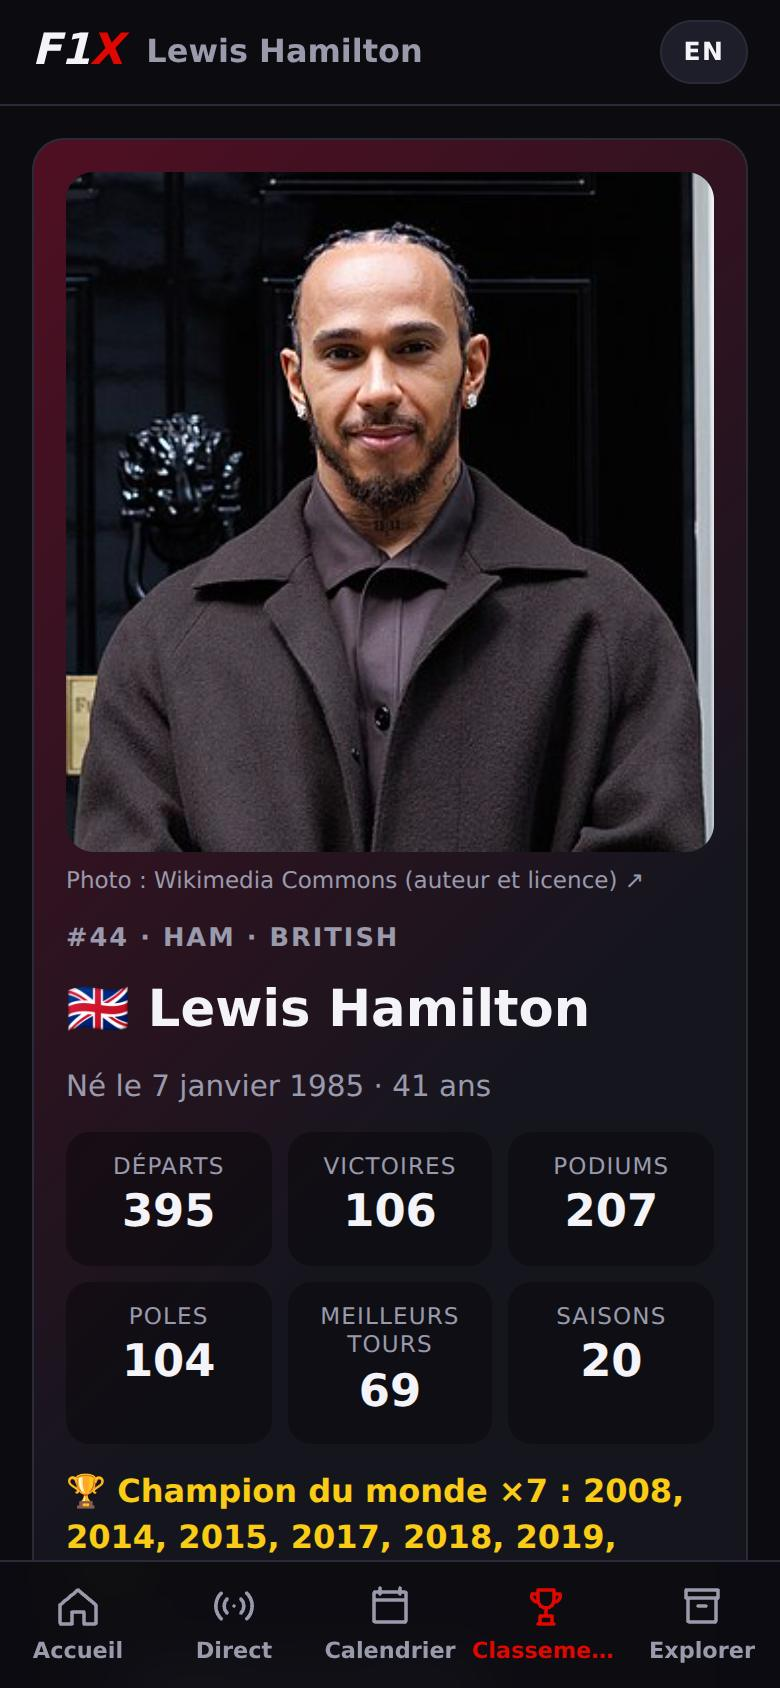
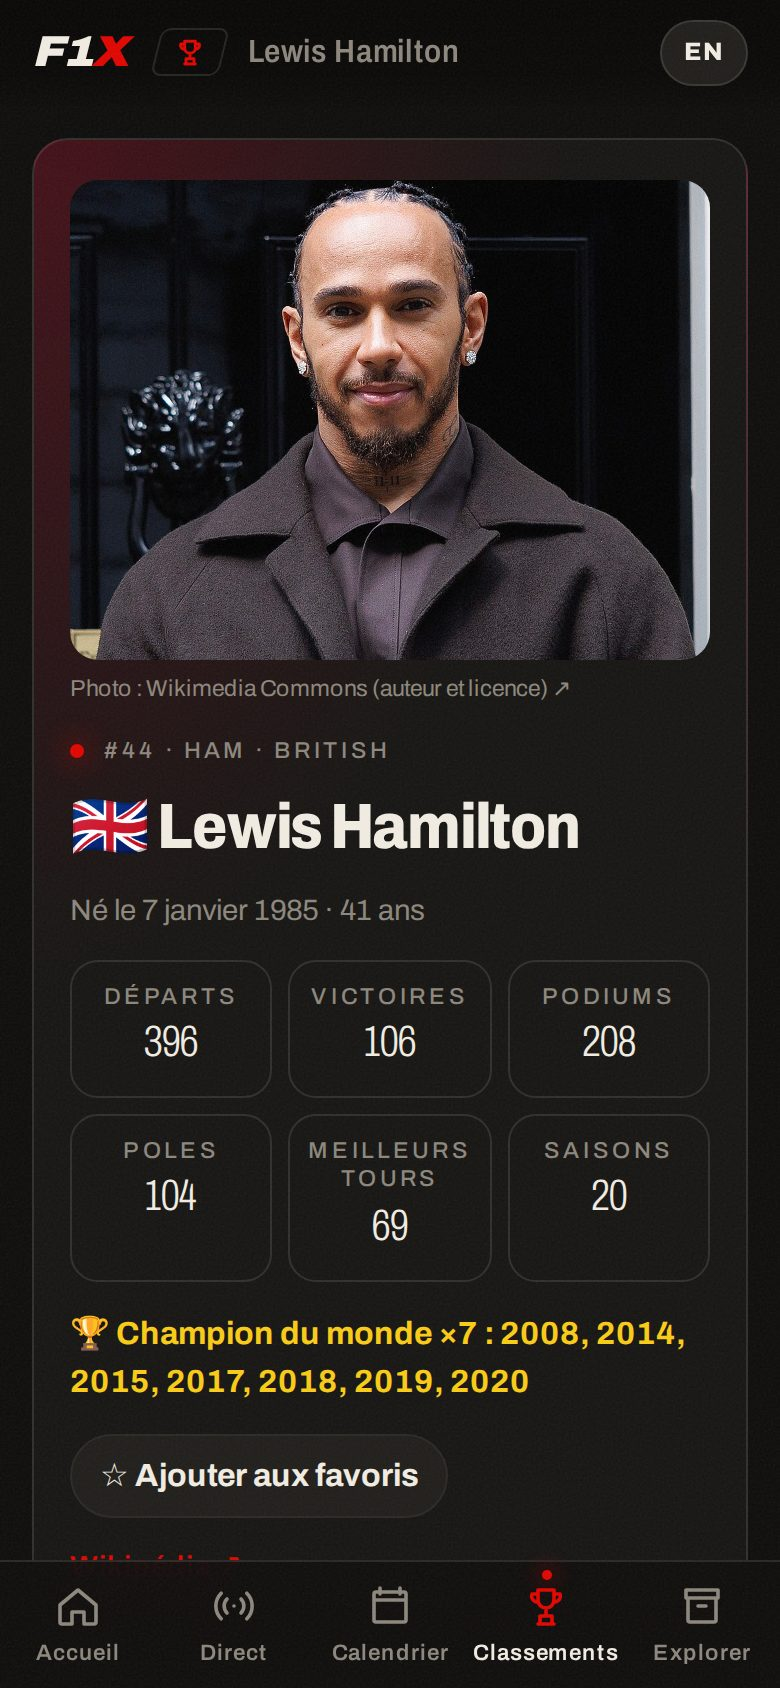
Site : rouge F1 rétabli et beaucoup plus d'animations
- Rouge F1 d'origine à la place de l'orange.
- Animations : entrée des pages, titres qui montent, apparition des
  cartes au défilement, barre de progression rouge, compte à rebours
  qui bascule à chaque seconde, lueur et ligne de vitesse sur la carte
  du prochain GP, X du logo qui s'allume, séances qui glissent, podium
  qui monte, barres qui se remplissent, course suivante qui respire,
  tracé du circuit qui se dessine, boutons aimantés, icône d'onglet qui
  saute.
- Présentation : titre mot à mot, bandeau qui défile, manifeste qui
  s'allume au défilement, chiffres qui comptent, téléphone qui flotte ;
  captures d'écran refaites dans le nouveau style.

diff --git a/web/server/static/app.css b/web/server/static/app.css
@@ -8,7 +8,7 @@
   --hair: rgba(242, 237, 227, .12);
   --text: #f2ede3;
   --muted: #8d877d;
-  --red: #e8501a;
+  --red: #e10600;
   --purple: #a855f7;
   --radius: 18px;
   --tabbar-h: 64px;
@@ -180,7 +180,7 @@ strong { font-weight: 800; }
 .race-name { font-weight: 700; line-height: 1.25; }
 .race-meta { color: var(--muted); font-size: .85rem; }
 .race-check { color: var(--muted); font-weight: 800; flex: none; }
-.next-race { display: flex; flex-direction: column; gap: 4px; border-color: var(--red); background: linear-gradient(160deg, rgba(232, 80, 26, .16), var(--surface) 65%); color: inherit; text-decoration: none; }
+.next-race { display: flex; flex-direction: column; gap: 4px; border-color: var(--red); background: linear-gradient(160deg, rgba(225, 6, 0, .16), var(--surface) 65%); color: inherit; text-decoration: none; }
 .next-race-name { font-size: 1.15rem; font-weight: 800; white-space: nowrap; overflow: hidden; text-overflow: ellipsis; }
 .next-race-date { font-weight: 700; }
 .badge {
@@ -190,7 +190,7 @@ strong { font-weight: 800; }
 .badge-live { background: var(--red); color: #fff; }
 .tag {
   display: inline-block; font-size: .68rem; font-weight: 700; text-transform: uppercase;
-  padding: 1px 6px; border-radius: 6px; background: rgba(232, 80, 26, .16); color: #ff8a5c;
+  padding: 1px 6px; border-radius: 6px; background: rgba(225, 6, 0, .16); color: #ff6b66;
 }
 .tag-purple { background: rgba(168, 85, 247, .2); color: var(--purple); }
 
@@ -428,10 +428,10 @@ button.btn:disabled { opacity: .5; }
 .quiz-options { display: grid; grid-template-columns: minmax(0, 1fr); gap: 8px; }
 .quiz-option { font: inherit; font-weight: 700; text-align: left; color: var(--text); background: var(--surface); border: 1px solid var(--line); border-radius: 12px; padding: 14px; cursor: pointer; }
 .quiz-right { border-color: #22c55e; background: rgba(34, 197, 94, .15); }
-.quiz-wrong { border-color: var(--red); background: rgba(232, 80, 26, .15); }
+.quiz-wrong { border-color: var(--red); background: rgba(225, 6, 0, .15); }
 .quiz-dim { opacity: .5; }
 .predict-label { min-width: 7.5ch; }
-.row-picked { background: rgba(232, 80, 26, .08); }
+.row-picked { background: rgba(225, 6, 0, .08); }
 .pick-btn { flex: none; width: 40px; height: 40px; border-radius: 50%; border: 1px solid var(--line); background: var(--surface-2); color: var(--text); font: inherit; font-size: 1.2rem; font-weight: 800; cursor: pointer; }
 .pick-btn:disabled { opacity: .35; }
 .pick-on { background: var(--red); border-color: var(--red); color: #fff; }
@@ -572,7 +572,7 @@ button.btn:disabled { opacity: .5; }
 .app-foot-note { font-size: .74rem; line-height: 1.45; }
 
 /* ---------- Installation (PWA) ---------- */
-.install-card { border-color: rgba(232, 80, 26, .45); background: linear-gradient(160deg, rgba(232, 80, 26, .12), var(--surface) 60%); }
+.install-card { border-color: rgba(225, 6, 0, .45); background: linear-gradient(160deg, rgba(225, 6, 0, .12), var(--surface) 60%); }
 .install-close { flex: none; width: 36px; height: 36px; border-radius: 999px; border: 1px solid var(--line); background: var(--surface-2);
   color: var(--muted); font: inherit; cursor: pointer; }
 .scene-full { position: fixed; inset: 0; z-index: 100; margin: 0; border-radius: 0;
@@ -900,10 +900,10 @@ h2 { font-size: 1.3rem; font-weight: 700; }
 .tab[aria-current="page"] svg, .tab-active svg { stroke: var(--red); }
 
 /* Logos de rubrique : sobres, contour crème et pictogramme signal. */
-.sec-home, .sec-live, .sec-cal, .sec-standings, .sec-explore { --sec: var(--red); --sec2: #ff8a5c; }
+.sec-home, .sec-live, .sec-cal, .sec-standings, .sec-explore { --sec: var(--red); --sec2: #ff5a3c; }
 .sec-badge { background: transparent; border: 1px solid var(--hair); box-shadow: none; }
 .sec-badge svg { stroke: var(--red); }
-.sec-intro { background: radial-gradient(circle at 50% 45%, rgba(232, 80, 26, .22), transparent 62%), rgba(8, 7, 6, .72); }
+.sec-intro { background: radial-gradient(circle at 50% 45%, rgba(225, 6, 0, .22), transparent 62%), rgba(8, 7, 6, .72); }
 .sec-intro-label { font-variation-settings: "wdth" 88; letter-spacing: .18em; text-transform: uppercase; }
 
 /* Pied de page. */
@@ -924,4 +924,114 @@ h2 { font-size: 1.3rem; font-weight: 700; }
   .grain { animation: none; }
   .btn, .race-item { transition: none; }
   .btn:hover { transform: none; }
+}
+
+/* =====================================================================
+   Animations de l'atelier : entrée des pages, titres qui montent,
+   apparition au défilement, barre de progression, chiffres qui basculent.
+   ===================================================================== */
+.page { animation: page-in .65s var(--ease) both; }
+@keyframes page-in { from { opacity: 0; transform: translateY(16px); } }
+.hero-title, .page > h1 { animation: titre-in .9s var(--ease) both .08s; }
+@keyframes titre-in { from { opacity: 0; transform: translateY(.4em); filter: blur(6px); } }
+.eyebrow::before { animation: pouls 2.4s ease-in-out infinite; }
+@keyframes pouls { 50% { box-shadow: 0 0 4px var(--red); transform: scale(.7); } }
+
+/* Le chiffre qui change bascule (classe posée par le script de la page). */
+.cd-num.tic { animation: tic .45s var(--ease); }
+@keyframes tic { from { opacity: .25; transform: translateY(-.25em); } }
+
+/* Onglet choisi : petit saut de l'icône. */
+.tab[aria-current="page"] svg, .tab-active svg { animation: saut .5s var(--ease); }
+@keyframes saut { 40% { transform: translateY(-5px) scale(1.12); } }
+
+/* Boutons : balayage crème au survol (ordinateur). */
+.btn-ghost { background-image: linear-gradient(var(--text), var(--text)); background-repeat: no-repeat; background-size: 0 100%; transition: background-size .45s var(--ease), color .3s var(--ease), transform .35s var(--ease); }
+.btn-ghost:hover { background-size: 100% 100%; }
+
+/* Tracé des circuits : la ligne se dessine. */
+.outline-line { stroke-dasharray: 1; stroke-dashoffset: 1; animation: trace-circuit 1.8s var(--ease) forwards .2s; }
+@keyframes trace-circuit { to { stroke-dashoffset: 0; } }
+
+@supports (animation-timeline: view()) {
+  .card:not(.hero), .race-item, .news-item, .rows-card, .podium-step, .row, .wx-day {
+    animation: apparait linear both; animation-timeline: view(); animation-range: entry 0% entry 30%;
+  }
+}
+@keyframes apparait { from { opacity: 0; transform: translateY(36px) scale(.985); } to { opacity: 1; transform: none; } }
+@supports (animation-timeline: scroll()) {
+  body::after {
+    content: ""; position: fixed; top: 0; left: 0; right: 0; height: 2px; z-index: 80;
+    background: var(--red); transform-origin: 0 50%; animation: avance linear both; animation-timeline: scroll(root);
+  }
+}
+@keyframes avance { from { transform: scaleX(0); } to { transform: scaleX(1); } }
+
+@media (prefers-reduced-motion: reduce) {
+  .page, .hero-title, .page > h1, .eyebrow::before, .cd-num.tic, .tab[aria-current="page"] svg, .tab-active svg,
+  .card:not(.hero), .race-item, .news-item, .rows-card, .podium-step, .row, .wx-day { animation: none; }
+  .outline-line { animation: none; stroke-dashoffset: 0; }
+  body::after { display: none; }
+}
+
+/* ---------- Encore plus de mouvement ---------- */
+/* Lueur rouge qui dérive lentement derrière la carte du prochain Grand Prix. */
+.hero { position: relative; overflow: hidden; isolation: isolate; }
+.hero::before {
+  content: ""; position: absolute; z-index: -1; width: 70%; aspect-ratio: 1; left: -20%; top: -35%;
+  border-radius: 50%; background: radial-gradient(circle, rgba(225, 6, 0, .38), transparent 65%);
+  filter: blur(30px); animation: derive 14s ease-in-out infinite alternate;
+}
+@keyframes derive { to { transform: translate(55%, 45%) scale(1.25); } }
+/* Ligne de vitesse qui balaie la carte toutes les quelques secondes. */
+.hero::after {
+  content: ""; position: absolute; z-index: -1; left: -40%; top: 30%; width: 40%; height: 2px;
+  background: linear-gradient(90deg, transparent, rgba(225, 6, 0, .9), transparent);
+  animation: balaie 5.5s cubic-bezier(.6, 0, .3, 1) infinite 1.2s;
+}
+@keyframes balaie { 0% { transform: translateX(0); opacity: 0; } 8% { opacity: 1; } 30%, 100% { transform: translateX(380%); opacity: 0; } }
+
+/* Le X du logo s'allume. */
+.brand-x { display: inline-block; animation: x-allume 3.2s ease-in-out infinite; }
+@keyframes x-allume { 0%, 70%, 100% { text-shadow: none; } 80% { text-shadow: 0 0 14px rgba(225, 6, 0, .9); transform: skewX(-6deg); } }
+
+/* Programme du week-end : les séances glissent l'une après l'autre. */
+.sessions .session { animation: glisse .6s var(--ease) both; }
+.sessions .session:nth-child(2) { animation-delay: .06s; } .sessions .session:nth-child(3) { animation-delay: .12s; }
+.sessions .session:nth-child(4) { animation-delay: .18s; } .sessions .session:nth-child(5) { animation-delay: .24s; }
+.sessions .session:nth-child(6) { animation-delay: .30s; }
+@keyframes glisse { from { opacity: 0; transform: translateX(-22px); } }
+
+/* Podium : les marches montent, le vainqueur en dernier. */
+.podium-step { animation: marche .7s var(--ease) both; }
+.podium-step:nth-child(2) { animation-delay: .1s; } .podium-step:nth-child(3) { animation-delay: .2s; }
+.podium-step:nth-child(1) { animation-delay: .35s; }
+@keyframes marche { from { opacity: 0; transform: translateY(40px); } }
+
+/* Barres de points : elles se remplissent. */
+.bar-fill, .cmp-fill, .progress span { transform-origin: left center; animation: remplit 1.1s var(--ease) both .15s; }
+@keyframes remplit { from { transform: scaleX(0); } }
+
+/* Calendrier : la course suivante respire, les cartes se soulèvent au survol. */
+.race-item.next { animation: respire 2.6s ease-in-out infinite; }
+@keyframes respire { 50% { box-shadow: 0 0 0 4px rgba(225, 6, 0, .18), 0 0 26px rgba(225, 6, 0, .25); } }
+@media (hover: hover) {
+  /* « translate » (et non « transform ») : ne se bat pas avec les animations d'apparition. */
+  .race-item:hover, .news-item:hover, .card:not(.hero):hover { translate: 0 -3px; border-color: rgba(242, 237, 227, .3); }
+  .card, .news-item, .race-item { transition: translate .4s var(--ease), border-color .3s var(--ease); }
+  .row:hover::before { width: 7px; }
+  .row::before { transition: width .3s var(--ease); }
+}
+
+/* Chiffres clés et compte à rebours : apparition en cascade. */
+.stats div, .cd-cell { animation: chiffre .7s var(--ease) both; }
+.stats div:nth-child(2), .cd-cell:nth-child(2) { animation-delay: .07s; }
+.stats div:nth-child(3), .cd-cell:nth-child(3) { animation-delay: .14s; }
+.stats div:nth-child(4), .cd-cell:nth-child(4) { animation-delay: .21s; }
+.stats div:nth-child(5) { animation-delay: .28s; } .stats div:nth-child(6) { animation-delay: .35s; }
+@keyframes chiffre { from { opacity: 0; transform: translateY(18px) scale(.96); } }
+
+@media (prefers-reduced-motion: reduce) {
+  .hero::before, .hero::after, .brand-x, .sessions .session, .podium-step, .bar-fill, .cmp-fill, .progress span,
+  .race-item.next, .stats div, .cd-cell { animation: none; }
 }

diff --git a/web/server/static/index.html b/web/server/static/index.html
@@ -114,6 +114,27 @@
         c.style.transform = "translate(" + cx + "px," + cy + "px)";
         requestAnimationFrame(loop);
       })();
+      // Boutons aimantés : suivent légèrement le pointeur.
+      document.addEventListener("pointermove", function (e) {
+        var b = e.target.closest && e.target.closest(".btn, .site-link, .lang-switch, .pill");
+        if (window.__aimant && window.__aimant !== b) { window.__aimant.style.transform = ""; }
+        window.__aimant = b;
+        if (!b) return;
+        var r = b.getBoundingClientRect();
+        b.style.transform = "translate(" + (e.clientX - r.left - r.width / 2) * .22 + "px," + (e.clientY - r.top - r.height / 2) * .3 + "px)";
+      }, { passive: true });
+    })();
+    // Compte à rebours : le chiffre qui change bascule.
+    (function () {
+      if (matchMedia("(prefers-reduced-motion: reduce)").matches) return;
+      new MutationObserver(function (list) {
+        list.forEach(function (m) {
+          var el = m.target.nodeType === 3 ? m.target.parentElement : m.target;
+          var n = el && el.closest && el.closest(".cd-num");
+          if (!n) return;
+          n.classList.remove("tic"); void n.offsetWidth; n.classList.add("tic");
+        });
+      }).observe(document.body, { subtree: true, characterData: true, childList: true });
     })();
   </script>
   <div id="app"><div class="boot"><span class="brand"><span class="brand-mark">F1</span><span class="brand-x">X</span></span></div></div>

diff --git a/web/server/src/landing.rs b/web/server/src/landing.rs
@@ -231,6 +231,38 @@ fn shell(lang: Lang, origin: &str, m: Meta, body: &str) -> String {
 {body}
 </main>
 {footer}
+<script>
+(function () {{
+  // Chiffres clés : comptent depuis 0 quand ils arrivent à l'écran (valeur finale déjà affichée sans script).
+  if (!matchMedia("(prefers-reduced-motion: reduce)").matches && "IntersectionObserver" in window) {{
+    var io = new IntersectionObserver(function (es) {{
+      es.forEach(function (e) {{
+        if (!e.isIntersecting) return;
+        io.unobserve(e.target);
+        var el = e.target, final = el.textContent, n = parseInt(final.replace(/\D/g, ""), 10);
+        if (!n) return;
+        var t0 = performance.now();
+        (function tick(t) {{
+          var k = Math.min(1, (t - t0) / 1400), v = Math.round(n * (1 - Math.pow(1 - k, 3)));
+          el.textContent = k < 1 ? final.replace(/[\d\s\u202f]+/, v.toLocaleString(document.documentElement.lang) + (/\s$/.test(final) ? " " : "")) : final;
+          if (k < 1) requestAnimationFrame(tick);
+        }})(t0);
+      }});
+    }}, {{ threshold: .6 }});
+    document.querySelectorAll(".numbers strong").forEach(function (el) {{ io.observe(el); }});
+  }}
+  // Boutons aimantés : suivent légèrement le pointeur (souris uniquement).
+  if (matchMedia("(hover: hover) and (pointer: fine)").matches) {{
+    document.querySelectorAll(".btn, .lang").forEach(function (b) {{
+      b.addEventListener("pointermove", function (e) {{
+        var r = b.getBoundingClientRect();
+        b.style.transform = "translate(" + (e.clientX - r.left - r.width / 2) * .25 + "px," + (e.clientY - r.top - r.height / 2) * .35 + "px)";
+      }});
+      b.addEventListener("pointerleave", function () {{ b.style.transform = ""; }});
+    }});
+  }}
+}})();
+</script>
 </body>
 </html>"##
     )
@@ -320,6 +352,32 @@ fn footer(lang: Lang, app: &str) -> String {
 }
 
 // ---------- Présentation ----------
+
+/// Découpe un texte en mots animables (`<span class="{class}" style="--i:n">`).
+fn words(text: &str, class: &str) -> String {
+    text.split(' ')
+        .enumerate()
+        .map(|(i, w)| format!(r#"<span class="{class}" style="--i:{i}"><span>{w}</span></span> "#))
+        .collect::<String>()
+        .trim_end()
+        .to_string()
+}
+
+/// Bandeau qui défile : les rubriques de l'app séparées par un point signal.
+fn ribbon(lang: Lang) -> String {
+    [
+        lang.t("Race Center", "Race Center"),
+        lang.t("Circuits en 3D", "3D circuits"),
+        lang.t("Télémétrie", "Telemetry"),
+        lang.t("Radios", "Team radio"),
+        lang.t("Stratégie", "Strategy"),
+        lang.t("Météo", "Weather"),
+        lang.t("75 ans d'archives", "75 years of history"),
+    ]
+    .iter()
+    .map(|w| format!("<span>{w}</span><i></i>"))
+    .collect()
+}
 
 fn render(lang: Lang, back: Option<&str>, origin: &str) -> String {
     let t = |f: &'static str, e: &'static str| lang.t(f, e);
@@ -456,7 +514,7 @@ fn render(lang: Lang, back: Option<&str>, origin: &str) -> String {
         r##"  <section class="hero">
     <div class="hero-text">
       <p class="eyebrow">{eyebrow}</p>
-      <h1>{h1}</h1>
+      <h1 class="mots">{h1}</h1>
       <p class="lead">{lead}</p>
       <div class="ctas">
         <a class="btn btn-big" href="{app}">{cta} <span aria-hidden="true">→</span></a>
@@ -473,6 +531,10 @@ fn render(lang: Lang, back: Option<&str>, origin: &str) -> String {
     <li><strong>880+</strong><span>{drivers}</span></li>
     <li><strong>3D</strong><span>{three_d}</span></li>
   </ul>
+
+  <div class="bande" aria-hidden="true"><div class="bande-piste">{ribbon}{ribbon}</div></div>
+
+  <section class="manifeste"><p>{manifesto}</p></section>
 
   <div id="fonctionnalites">{features}</div>
 
@@ -504,10 +566,21 @@ fn render(lang: Lang, back: Option<&str>, origin: &str) -> String {
     <a class="btn btn-big" href="{app}">{cta} <span aria-hidden="true">→</span></a>
   </section>"##,
         eyebrow = t("Application web gratuite", "Free web app"),
-        h1 = t(
-            "Toute la Formule 1 dans ta poche.",
-            "All of Formula 1 in your pocket."
+        h1 = words(
+            t(
+                "Toute la Formule 1 dans ta poche.",
+                "All of Formula 1 in your pocket."
+            ),
+            "mot"
         ),
+        manifesto = words(
+            t(
+                "Chaque tour, chaque arrêt, chaque radio. La course en direct, les circuits en 3D, 75 ans d'histoire. Tout tient dans ta poche.",
+                "Every lap, every stop, every radio call. The race live, the circuits in 3D, 75 years of history. All of it in your pocket."
+            ),
+            "lueur"
+        ),
+        ribbon = ribbon(lang),
         lead = t(
             "Race Center en temps réel, monoplaces et circuits en 3D, photos des pilotes et 75 ans d'archives. Rapide, clair, pensé pour le téléphone.",
             "A real-time Race Center, 3D cars and circuits, driver photos and 75 years of history. Fast, clear and built for your phone.",
@@ -822,7 +895,7 @@ fn credits_page(lang: Lang, origin: &str) -> String {
 }
 
 const CSS: &str = r#"
-:root{--bg:#0e0d0c;--surface:#161513;--surface-2:#201e1b;--line:rgba(242,237,227,.12);--text:#f2ede3;--muted:#8d877d;--red:#e8501a;--font:"Archivo",system-ui,-apple-system,"Segoe UI",Roboto,sans-serif;--ease:cubic-bezier(.2,.7,.1,1);color-scheme:dark}
+:root{--bg:#0e0d0c;--surface:#161513;--surface-2:#201e1b;--line:rgba(242,237,227,.12);--text:#f2ede3;--muted:#8d877d;--red:#e10600;--font:"Archivo",system-ui,-apple-system,"Segoe UI",Roboto,sans-serif;--ease:cubic-bezier(.2,.7,.1,1);color-scheme:dark}
 *,*::before,*::after{box-sizing:border-box;min-width:0}
 html,body{margin:0;max-width:100%;overflow-x:hidden}
 html{scroll-behavior:smooth;scroll-padding-top:72px}
@@ -939,6 +1012,40 @@ h1,h2{font-variation-settings:"wdth" 88;text-wrap:balance}
 .foot-legal{color:#6e6961}
 .doc p,.doc li{color:#d8d2c6}
 @media (prefers-reduced-motion:reduce){.grain{animation:none}.btn{transition:none}.btn:hover{transform:none}}
+
+/* Animations : mots qui montent, bandeau qui défile, manifeste qui s'allume au défilement. */
+.mots .mot{display:inline-block;overflow:hidden;vertical-align:top;padding-bottom:.06em}
+.mots .mot>span{display:inline-block;animation:mot .95s var(--ease) both;animation-delay:calc(var(--i)*80ms + .1s)}
+@keyframes mot{from{transform:translateY(105%) rotate(4deg)}}
+.hero .lead,.hero .ctas,.hero .note{animation:monte-in .9s var(--ease) both .55s}
+.hero .eyebrow{animation:monte-in .7s var(--ease) both}
+@keyframes monte-in{from{opacity:0;transform:translateY(18px)}}
+.eyebrow::before{animation:pouls 2.4s ease-in-out infinite}
+@keyframes pouls{50%{box-shadow:0 0 4px var(--red);transform:scale(.7)}}
+.phone{animation:flotte 7s ease-in-out infinite}
+@keyframes flotte{50%{transform:translateY(-10px) rotate(-.6deg)}}
+.bande{margin:20px calc(50% - 50vw) 0;border-block:1px solid var(--line);background:var(--surface);padding:18px 0;overflow:hidden;transform:rotate(-2deg) scale(1.04)}
+.bande-piste{display:flex;align-items:center;gap:34px;width:max-content;animation:bande 38s linear infinite}
+.bande-piste span{font-variation-settings:"wdth" 125;text-transform:uppercase;font-weight:800;font-size:clamp(26px,4.2vw,60px);letter-spacing:-.01em;white-space:nowrap}
+.bande-piste i{width:12px;height:12px;border-radius:50%;background:var(--red);box-shadow:0 0 16px var(--red);flex:none}
+@keyframes bande{to{transform:translateX(-50%)}}
+.manifeste{padding:clamp(70px,16vh,180px) 0}
+.manifeste p{max-width:1000px;margin:0 auto;font-size:clamp(28px,4.8vw,68px);line-height:1.08;font-weight:600;letter-spacing:-.015em;font-variation-settings:"wdth" 92;text-wrap:balance}
+.lueur{display:inline}
+@supports (animation-timeline: view()){
+  .lueur>span{animation:lueur linear both;animation-timeline:view();animation-range:entry 30% cover 45%}
+  .feature,.numbers li,.mini,.steps li,.final{animation:apparait linear both;animation-timeline:view();animation-range:entry 0% entry 40%}
+}
+@keyframes lueur{from{opacity:.12}to{opacity:1}}
+@keyframes apparait{from{opacity:0;transform:translateY(48px)}to{opacity:1;transform:none}}
+@supports (animation-timeline: scroll()){
+  body::after{content:"";position:fixed;top:0;left:0;right:0;height:2px;z-index:80;background:var(--red);transform-origin:0 50%;animation:avance linear both;animation-timeline:scroll(root)}
+}
+@keyframes avance{from{transform:scaleX(0)}to{transform:scaleX(1)}}
+@media (prefers-reduced-motion:reduce){
+  .mots .mot>span,.hero .lead,.hero .ctas,.hero .note,.hero .eyebrow,.eyebrow::before,.phone,.bande-piste,.lueur>span,.feature,.numbers li,.mini,.steps li,.final{animation:none}
+  body::after{display:none}
+}
 "#;
 
 #[cfg(test)]

diff --git a/web/frontend/src/pages/openf1.rs b/web/frontend/src/pages/openf1.rs
@@ -1569,7 +1569,7 @@ pub fn LapReplay(p: &LapReplayProps) -> Html {
                 <svg class="outline lap-replay-map" viewBox={format!("0 0 {:.0} {:.0}", m.width + 2.0 * pad, m.height + 2.0 * pad)}
                      role="img" aria-label={t("Position de la voiture sur le circuit", "Car position on the circuit")}>
                     <polyline class="outline-base" points={line.clone()} />
-                    <polyline class="outline-line" points={line} />
+                    <polyline class="outline-line" pathLength="1" points={line} />
                     <circle cx={format!("{cx:.0}")} cy={format!("{cy:.0}")} r="34" fill={format!("#{}", p.colour)} stroke="#fff" stroke-width="10" />
                 </svg>
             }

diff --git a/web/frontend/src/pages/track.rs b/web/frontend/src/pages/track.rs
@@ -315,7 +315,7 @@ pub fn TrackOutline(props: &OutlineProps) -> Html {
         <svg class="outline" viewBox={format!("0 0 {w:.0} {h:.0}")} role="img"
              aria-label={t("Tracé du circuit", "Circuit layout")}>
             <polyline class="outline-base" points={line.clone()} />
-            <polyline class="outline-line" points={line} />
+            <polyline class="outline-line" pathLength="1" points={line} />
             <circle class="outline-start" cx={format!("{x0:.0}")} cy={format!("{y0:.0}")} r="16" />
         </svg>
     }
